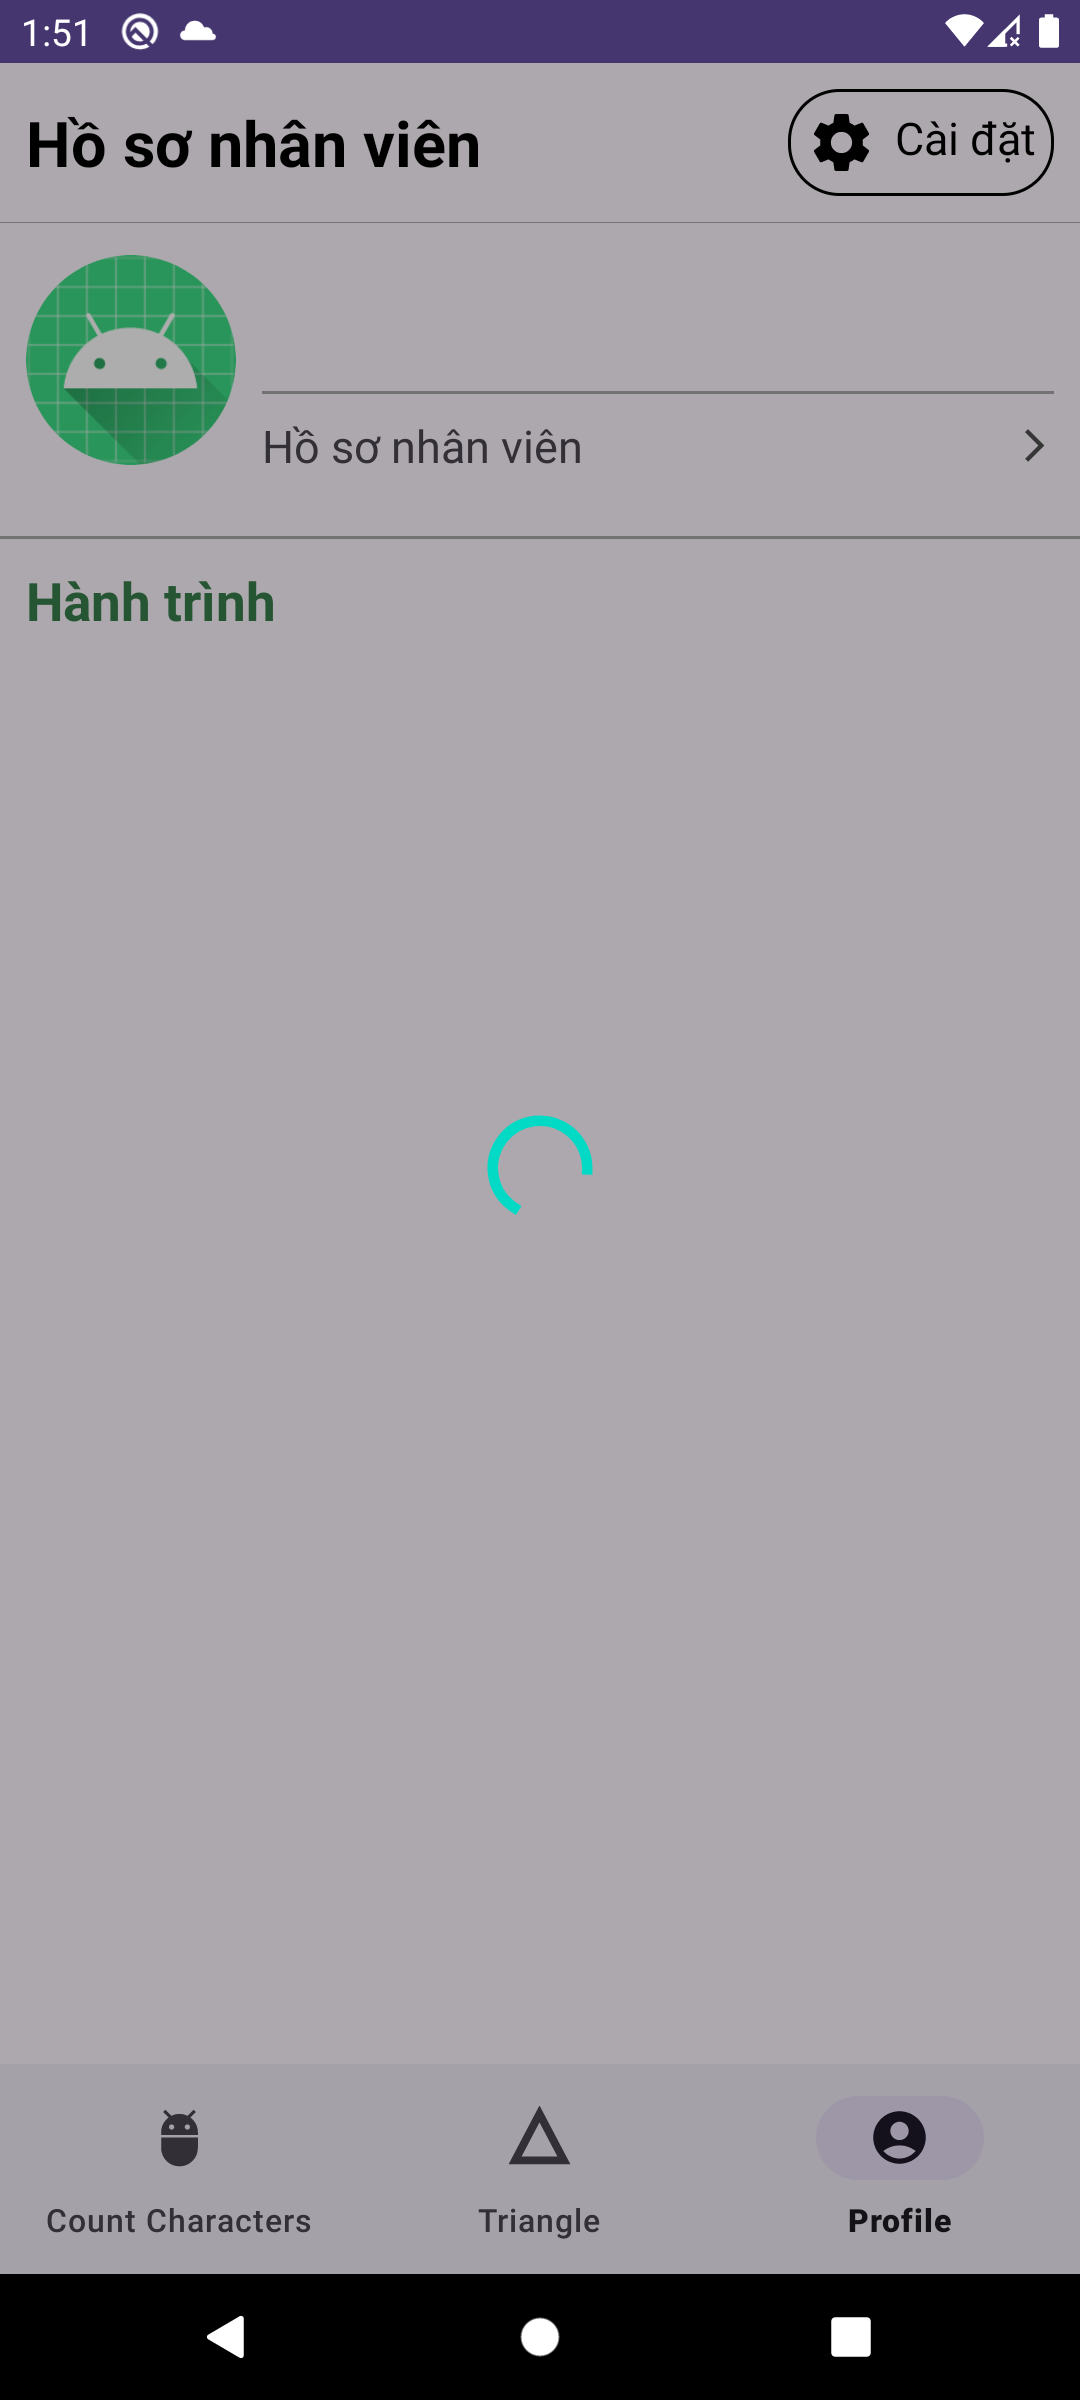
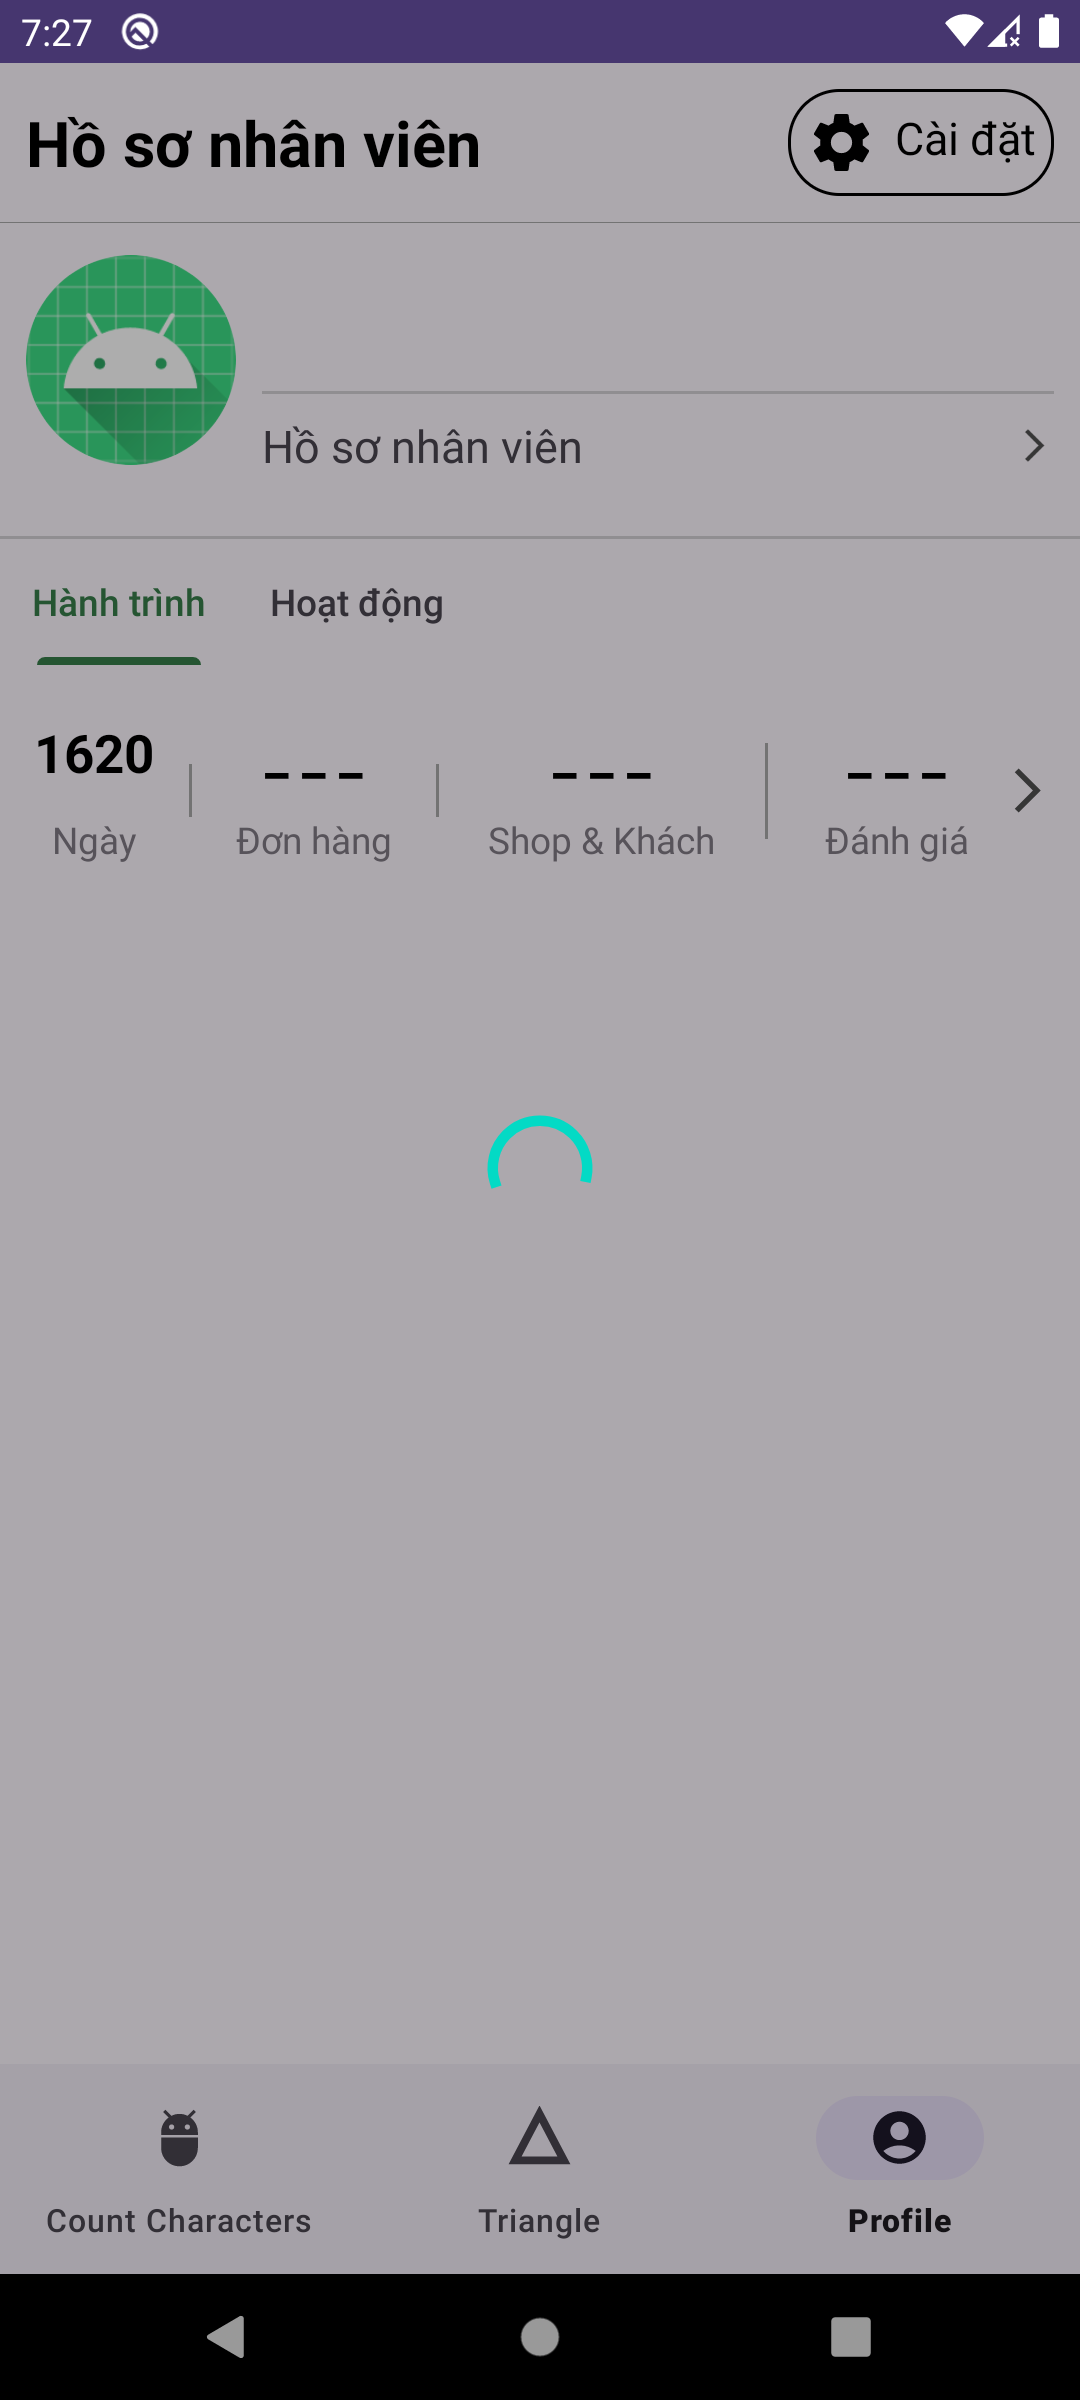
update UI profile

diff --git a/app/src/main/java/com/duyvv/firstlesson/ui/bai3/ProfileFragment.kt b/app/src/main/java/com/duyvv/firstlesson/ui/bai3/ProfileFragment.kt
@@ -4,11 +4,12 @@ import android.os.Bundle
 import android.view.LayoutInflater
 import android.view.View
 import android.view.ViewGroup
-import androidx.fragment.app.viewModels
+import androidx.lifecycle.ViewModelProvider
 import androidx.lifecycle.lifecycleScope
 import com.duyvv.firstlesson.base.BaseFragment
 import com.duyvv.firstlesson.databinding.FragmentProfileBinding
 import com.duyvv.firstlesson.ui.MainActivity
+import com.google.android.material.tabs.TabLayoutMediator
 import dagger.hilt.android.AndroidEntryPoint
 import kotlinx.coroutines.launch
 
@@ -22,13 +23,15 @@ class ProfileFragment : BaseFragment<FragmentProfileBinding>() {
 
     private var activity: MainActivity? = null
 
-    private lateinit var historyAdapter: HistoryAdapter
+    private val profileHistoryAdapter: ProfileHistoryAdapter by lazy {
+        ProfileHistoryAdapter(this)
+    }
 
-    private val viewModel: ProfileViewModel by viewModels()
+    private lateinit var viewModel: ProfileViewModel
 
     override fun init() {
         activity = requireActivity() as MainActivity
-        historyAdapter = HistoryAdapter()
+        viewModel = ViewModelProvider(requireActivity())[ProfileViewModel::class.java]
     }
 
     override fun onViewCreated(
@@ -43,20 +46,35 @@ class ProfileFragment : BaseFragment<FragmentProfileBinding>() {
     }
 
     private fun setUp() {
-        binding.rcvHistory.apply {
-            adapter = historyAdapter
-        }
-
         // show loading icon and handle error
         setUpLoading()
+
+        // setup tablayout
+        setupTabLayout()
 
         lifecycleScope.launch {
             viewModel.profile.collect {
                 binding.tvName.text = it.fullName
                 binding.tvPosition.text = it.position
-                historyAdapter.setItems(it.histories ?: emptyList())
             }
         }
+    }
+
+    private fun setupTabLayout() {
+        binding.viewPager.adapter = profileHistoryAdapter
+        binding.tabLayout.apply {
+            background = null
+        }
+        binding.viewPager.apply {
+            isUserInputEnabled = false
+        }
+        TabLayoutMediator(binding.tabLayout, binding.viewPager) { tab, position ->
+            tab.text = when (position) {
+                0 -> "Hành trình"
+                1 -> "Hoạt động"
+                else -> ""
+            }
+        }.attach()
     }
 
     private fun setUpLoading() {

diff --git a/app/src/main/java/com/duyvv/firstlesson/ui/bai3/history/HistoryFragment.kt b/app/src/main/java/com/duyvv/firstlesson/ui/bai3/history/HistoryFragment.kt
@@ -1,0 +1,52 @@
+package com.duyvv.firstlesson.ui.bai3.history
+
+import android.os.Bundle
+import android.view.LayoutInflater
+import android.view.View
+import android.view.ViewGroup
+import androidx.lifecycle.ViewModelProvider
+import androidx.lifecycle.lifecycleScope
+import com.duyvv.firstlesson.base.BaseFragment
+import com.duyvv.firstlesson.databinding.FragmentHistoryBinding
+import com.duyvv.firstlesson.ui.bai3.ProfileViewModel
+import kotlinx.coroutines.launch
+
+
+class HistoryFragment : BaseFragment<FragmentHistoryBinding>() {
+
+    override fun getViewBinding(
+        inflater: LayoutInflater,
+        container: ViewGroup?
+    ) = FragmentHistoryBinding.inflate(inflater, container, false)
+
+    private val historyAdapter: HistoryAdapter by lazy { HistoryAdapter() }
+
+    private lateinit var viewModel: ProfileViewModel
+
+    override fun init() {
+        viewModel = ViewModelProvider(requireActivity())[ProfileViewModel::class.java]
+    }
+
+    override fun onViewCreated(view: View, savedInstanceState: Bundle?) {
+        super.onViewCreated(view, savedInstanceState)
+
+        setup()
+    }
+
+    private fun setup() {
+        binding.rcvHistory.apply {
+            adapter = historyAdapter
+        }
+
+        lifecycleScope.launch {
+            viewModel.profile.collect {
+                historyAdapter.setItems(it.histories ?: emptyList())
+            }
+        }
+    }
+
+    override fun onResume() {
+        super.onResume()
+        historyAdapter.setItems(viewModel.profile.value.histories ?: emptyList())
+    }
+}

diff --git a/app/src/main/java/com/duyvv/firstlesson/ui/bai3/ProfileHistoryAdapter.kt b/app/src/main/java/com/duyvv/firstlesson/ui/bai3/ProfileHistoryAdapter.kt
@@ -1,0 +1,19 @@
+package com.duyvv.firstlesson.ui.bai3
+
+import androidx.fragment.app.Fragment
+import androidx.viewpager2.adapter.FragmentStateAdapter
+import com.duyvv.firstlesson.ui.bai3.acitivity.ActivityFragment
+import com.duyvv.firstlesson.ui.bai3.history.HistoryFragment
+
+class ProfileHistoryAdapter(fragment: Fragment) : FragmentStateAdapter(fragment) {
+
+    override fun getItemCount() = 2
+
+    override fun createFragment(position: Int): Fragment {
+        return when (position) {
+            0 -> HistoryFragment()
+            1 -> ActivityFragment()
+            else -> throw IllegalStateException("Invalid position")
+        }
+    }
+}

diff --git a/app/src/main/java/com/duyvv/firstlesson/ui/bai3/acitivity/ActivityFragment.kt b/app/src/main/java/com/duyvv/firstlesson/ui/bai3/acitivity/ActivityFragment.kt
@@ -1,0 +1,18 @@
+package com.duyvv.firstlesson.ui.bai3.acitivity
+
+import android.view.LayoutInflater
+import android.view.ViewGroup
+import com.duyvv.firstlesson.base.BaseFragment
+import com.duyvv.firstlesson.databinding.FragmentActivityBinding
+
+
+class ActivityFragment : BaseFragment<FragmentActivityBinding>() {
+
+    override fun getViewBinding(
+        inflater: LayoutInflater,
+        container: ViewGroup?
+    ) = FragmentActivityBinding.inflate(layoutInflater, container, false)
+
+    override fun init() {
+    }
+}

diff --git a/app/src/main/java/com/duyvv/firstlesson/ui/bai2/customview/TriangleView.kt b/app/src/main/java/com/duyvv/firstlesson/ui/bai2/customview/TriangleView.kt
@@ -1,4 +1,4 @@
-package com.duyvv.firstlesson.ui.bai3.customview
+package com.duyvv.firstlesson.ui.bai2.customview
 
 import android.annotation.SuppressLint
 import android.content.Context

diff --git a/app/src/main/java/com/duyvv/firstlesson/ui/bai3/history/HistoryAdapter.kt b/app/src/main/java/com/duyvv/firstlesson/ui/bai3/history/HistoryAdapter.kt
@@ -1,4 +1,4 @@
-package com.duyvv.firstlesson.ui.bai3
+package com.duyvv.firstlesson.ui.bai3.history
 
 import android.annotation.SuppressLint
 import android.view.LayoutInflater
